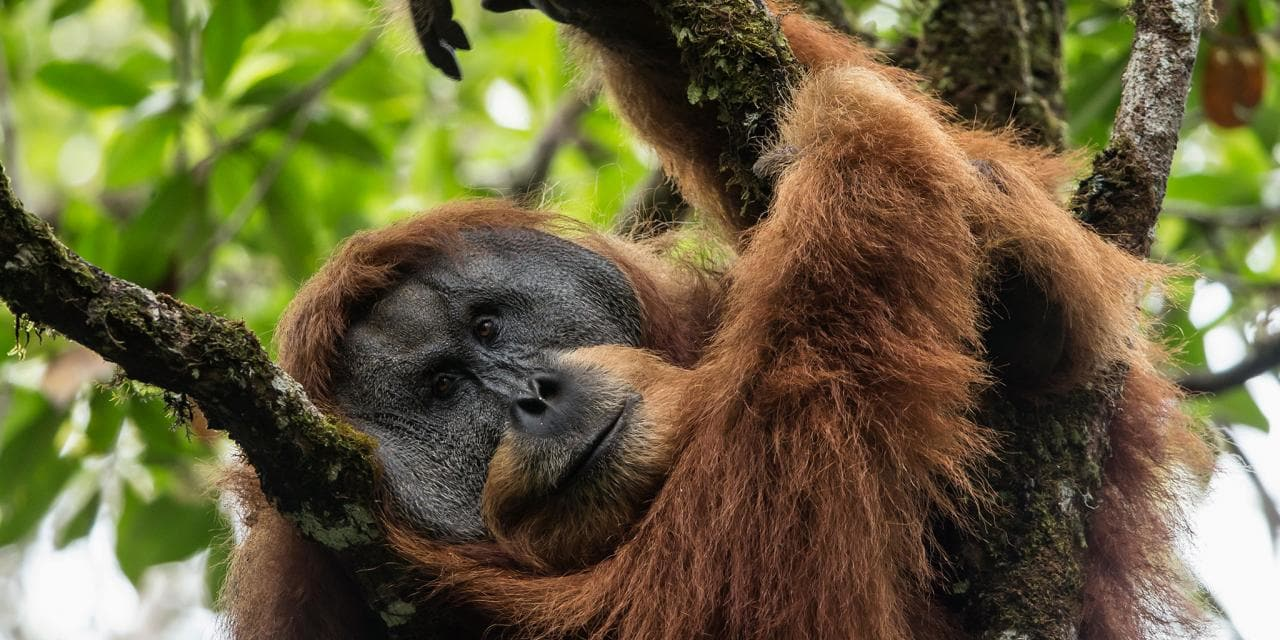
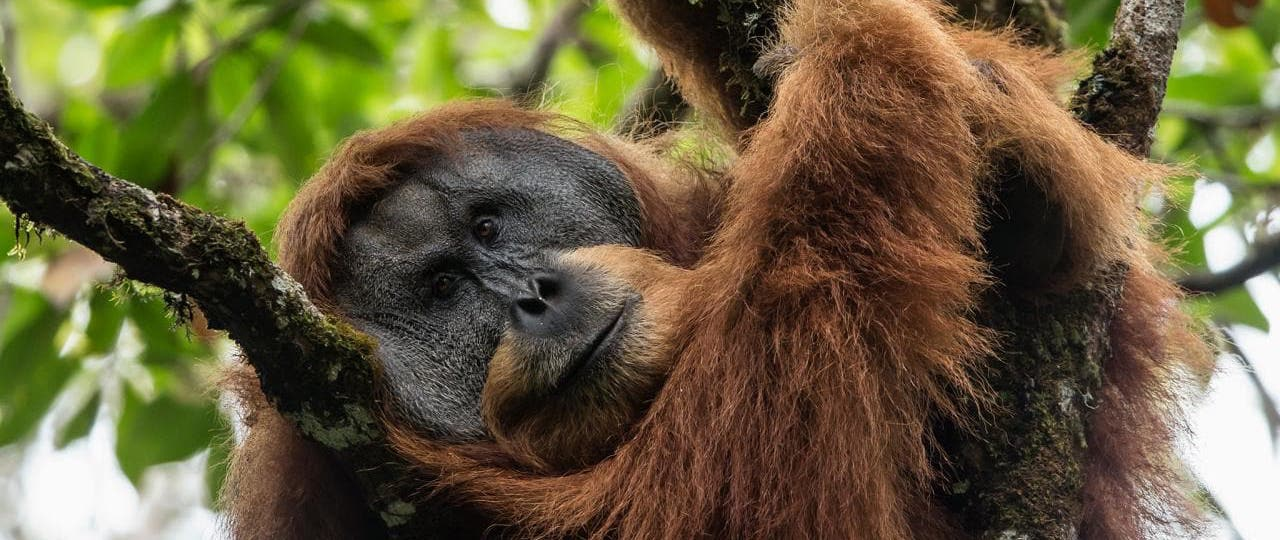
different changes
- Proboscis page layout
- banner list page update
- banner proboscis page update
- responsive on proboscis page

diff --git a/css/images/main.css b/css/images/main.css
@@ -477,27 +477,27 @@ Horizontal menu
                                Page Liste
    ___________________________________________________________________________*/
 
+   .hero_list {
+     background-color: #000;
+     background-image: url(../../images/md/md-image-14.jpg);
+     background-size: contain;
+     background-attachment: fixed;
+     width: 100%;
+     height: 300px;
+     display: flex;
+     align-items: center;
+     justify-content: center;
+   }
 
-.banner {
-  background-image: url(../../images/list-banner-bcg.jpg);
-  background-size: cover;
-  width: 100%;
-  height : 150px;
-  display: flex;
-  align-items: center;
-  justify-content: center;
-}
-
-.banner::after {
-  content: "";
-  position: absolute;
-  background-color: rgba(0,0,0,.3);
-  top: 10;
-  left: 0;
-  width: 100%;
-  height: 150px;
-  z-index: 990;
-}
+   .hero_list::after {
+     content: "";
+     position: absolute;
+     background-color: rgba(0,0,0,.4);
+     left: 0;
+     width: 100%;
+     height: 300px;
+     z-index: 990;
+   }
 
 .page-title {
   color: white;
@@ -580,6 +580,61 @@ figure h3 {
    ___________________________________________________________________________*/
 
 
+.hero_monkey {
+  background-image: url(../../images/md/md-image-18.jpg);
+  height: 300px;
+  display: flex;
+  justify-content: center;
+}
+
+.hero_monkey::after {
+  content: "";
+  position: absolute;
+  background-color: rgba(0,0,0,.4);
+  left: 0;
+  width: 100%;
+  height: 300px;
+  z-index: 990;
+}
+
+.introduction {
+  color: white;
+  z-index: 1001;
+  width: 60%;
+  margin: auto;
+}
+
+.introduction h2 {
+  text-align: center;
+}
+
+.dossier-top{
+  width: 90%;
+  margin: auto;
+  margin-top: 100px;
+  display: flex;
+}
+
+.portrait {
+  float: left;
+  width: 250px;
+  margin: 0 10% 0 5%;
+  border-radius: 5px;
+  box-shadow: 3px 0 12px rgba(0, 0, 0, .25);
+}
+
+.dossier-top-content {
+    text-align: center;
+    margin: auto;
+}
+
+.text {
+  max-width: 80%;
+  margin: auto;
+  margin-top: 100px;
+  margin-bottom: 200px;
+  column-count: 4;
+}
 
 
 

diff --git a/monkey-01.html b/monkey-01.html
@@ -42,7 +42,7 @@
           <ul>
             <li><a href="index.html">Home</a></li>
             <li><a href="list.html">Lists</a></li>
-            <li><a href="monkey-01.html">Monkeys</a></li>
+            <li><a href="monkey-01.html">Proboscis</a></li>
           </ul>
         </nav>
         <a href="#main-menu-toggle" class="backdrop" hidden></a>
@@ -60,7 +60,7 @@
 
 
   <section class="dossier-top clearfix">
-      <img src="images/portraits/pt-image-00.jpg" alt="A portrait of a proboscis monkey">
+      <img class="portrait" src="images/portraits/pt-image-01.jpg" alt="A portrait of a proboscis monkey">
       <div class="dossier-top-content">
         <div>
         <h2>Proboscis Monkeys</h2>
@@ -72,7 +72,7 @@
     </section>
 
 
-    <section class="">
+    <section class="text">
 
       <div class="section-content main-content">
       <p>When Jane Goodall first witnessed Gombe chimpanzee David Greybeard fishing for termites by manipulating blades of grass in 1960, the line between humans and other animals suddenly became blurry. Tool use was no longer uniquely human, leading Dr. Louis Leakey, Jane’s mentor, to famously say, “Now we must redefine tool, redefine man, or accept chimpanzees as human.”  </p>
@@ -93,21 +93,6 @@
 
     </section>
 
-<div class="strip-image">
-  <img src="images/lg/lg-image-00.jpg" alt="">
-</div>
-
-<div class="strip-image">
-  <img src="images/lg/lg-image-00.jpg" alt="">
-</div>
-
-<div class="strip-image">
-  <img src="images/lg/lg-image-00.jpg" alt="">
-</div>
-
-<div class="strip-image">
-  <img src="images/lg/lg-image-00.jpg" alt="">
-</div>
 
 <footer>
   <div class="footer-part">
@@ -116,7 +101,7 @@
       <ul>
         <li><a href="index.html">Home</a></li>
         <li><a href="list.html">Lists</a></li>
-        <li><a href="monkey-01.html">Monkeys</a></li>
+        <li><a href="monkey-01.html">Proboscis</a></li>
       </ul>
     </div>
 

diff --git a/css/images/layout.css b/css/images/layout.css
@@ -36,6 +36,26 @@ h1 {
     border-radius: 0;
   }
 
+  .dossier-top {
+    flex-wrap: wrap;
+    justify-content: center;
+  }
+
+  .portrait {
+    margin: 0;
+    margin-bottom: 70px;
+  }
+
+  .dossier-top-content {
+     max-width: 80%;
+  }
+
+  .text {
+    column-count: 1;
+    max-width: 60%;
+    margin-top: 50px;
+  }
+
 
   .footer-part {
     flex-direction: column;
@@ -90,6 +110,26 @@ h1 {
     border-radius: 0;
   }
 
+  .dossier-top {
+    flex-wrap: wrap;
+    justify-content: center;
+  }
+
+  .portrait {
+    margin: 0;
+    margin-bottom: 70px;
+  }
+
+  .dossier-top-content {
+     max-width: 80%;
+  }
+
+  .text {
+    column-count: 1;
+    max-width: 60%;
+  }
+
+
 }
 
 
@@ -113,16 +153,9 @@ h1 {
     grid-template-columns: 300px 300px;
   }
 
-
-
-  /*body{
-    background-color: purple;
-      }
-      */
-
-  /*.hero {
-    background-image: url(../../images/jungle02.jpg);
-  } */
+  .text {
+    column-count: 2;
+  }
 }
 
 @media (min-width:1025px) and (max-width: 1280px) {

diff --git a/list.html b/list.html
@@ -41,14 +41,14 @@
           <ul>
             <li><a href="index.html">Home</a></li>
             <li><a href="list.html">Lists</a></li>
-            <li><a href="monkey-01.html">Monkeys</a></li>
+            <li><a href="monkey-01.html">Proboscis</a></li>
           </ul>
         </nav>
         <a href="#main-menu-toggle" class="backdrop" hidden></a>
 
     </header>
 
-  <section class="banner">
+  <section class="hero_list">
     <h2 class="page-title"> LIST </h2>
   </section>
 
@@ -205,7 +205,7 @@
         <ul>
           <li><a href="index.html">Home</a></li>
           <li><a href="list.html">Lists</a></li>
-          <li><a href="monkey-01.html">Monkeys</a></li>
+          <li><a href="monkey-01.html">Proboscis</a></li>
         </ul>
       </div>
 

diff --git a/index.html b/index.html
@@ -34,7 +34,7 @@
         <ul>
           <li><a href="index.html">Home</a></li>
           <li><a href="list.html">Lists</a></li>
-          <li><a href="monkey-01.html">Monkeys</a></li>
+          <li><a href="monkey-01.html">Proboscis</a></li>
         </ul>
       </nav>
       <a href="#main-menu-toggle" class="backdrop" hidden></a>
@@ -128,7 +128,7 @@
           <ul>
             <li><a href="index.html">Home</a></li>
             <li><a href="list.html">Lists</a></li>
-            <li><a href="monkey-01.html">Monkeys</a></li>
+            <li><a href="monkey-01.html">Proboscis</a></li>
           </ul>
         </div>
 
